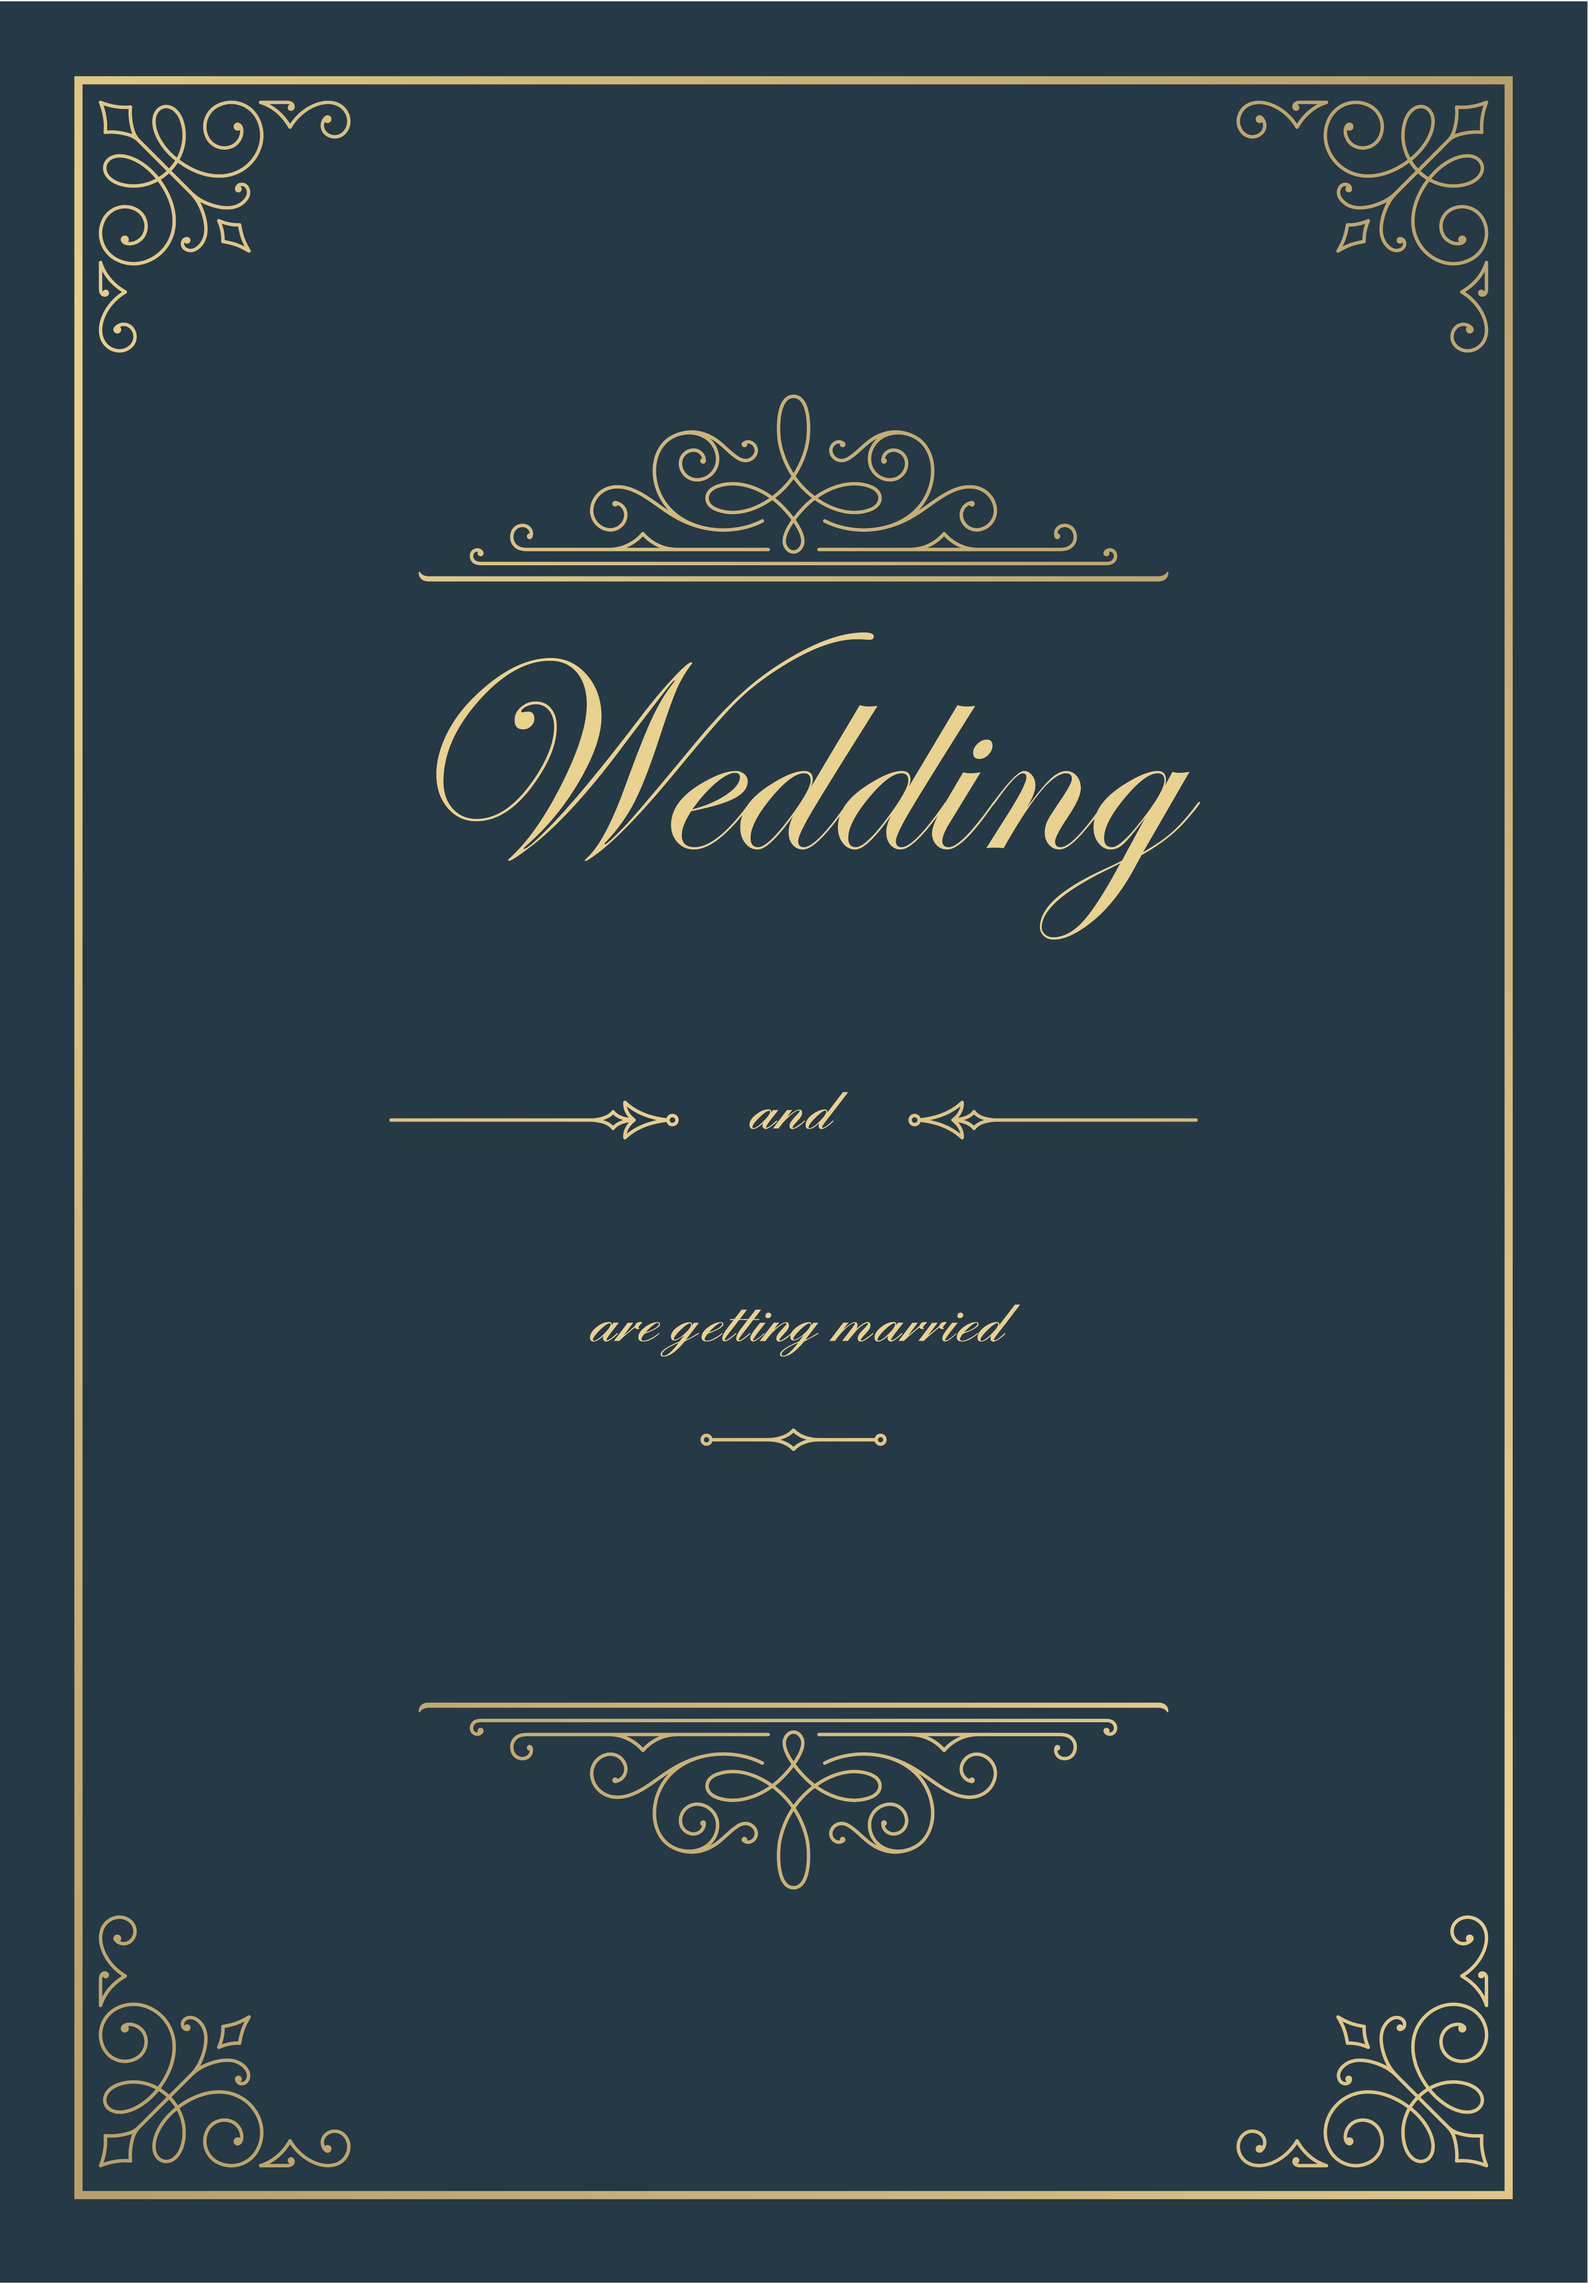
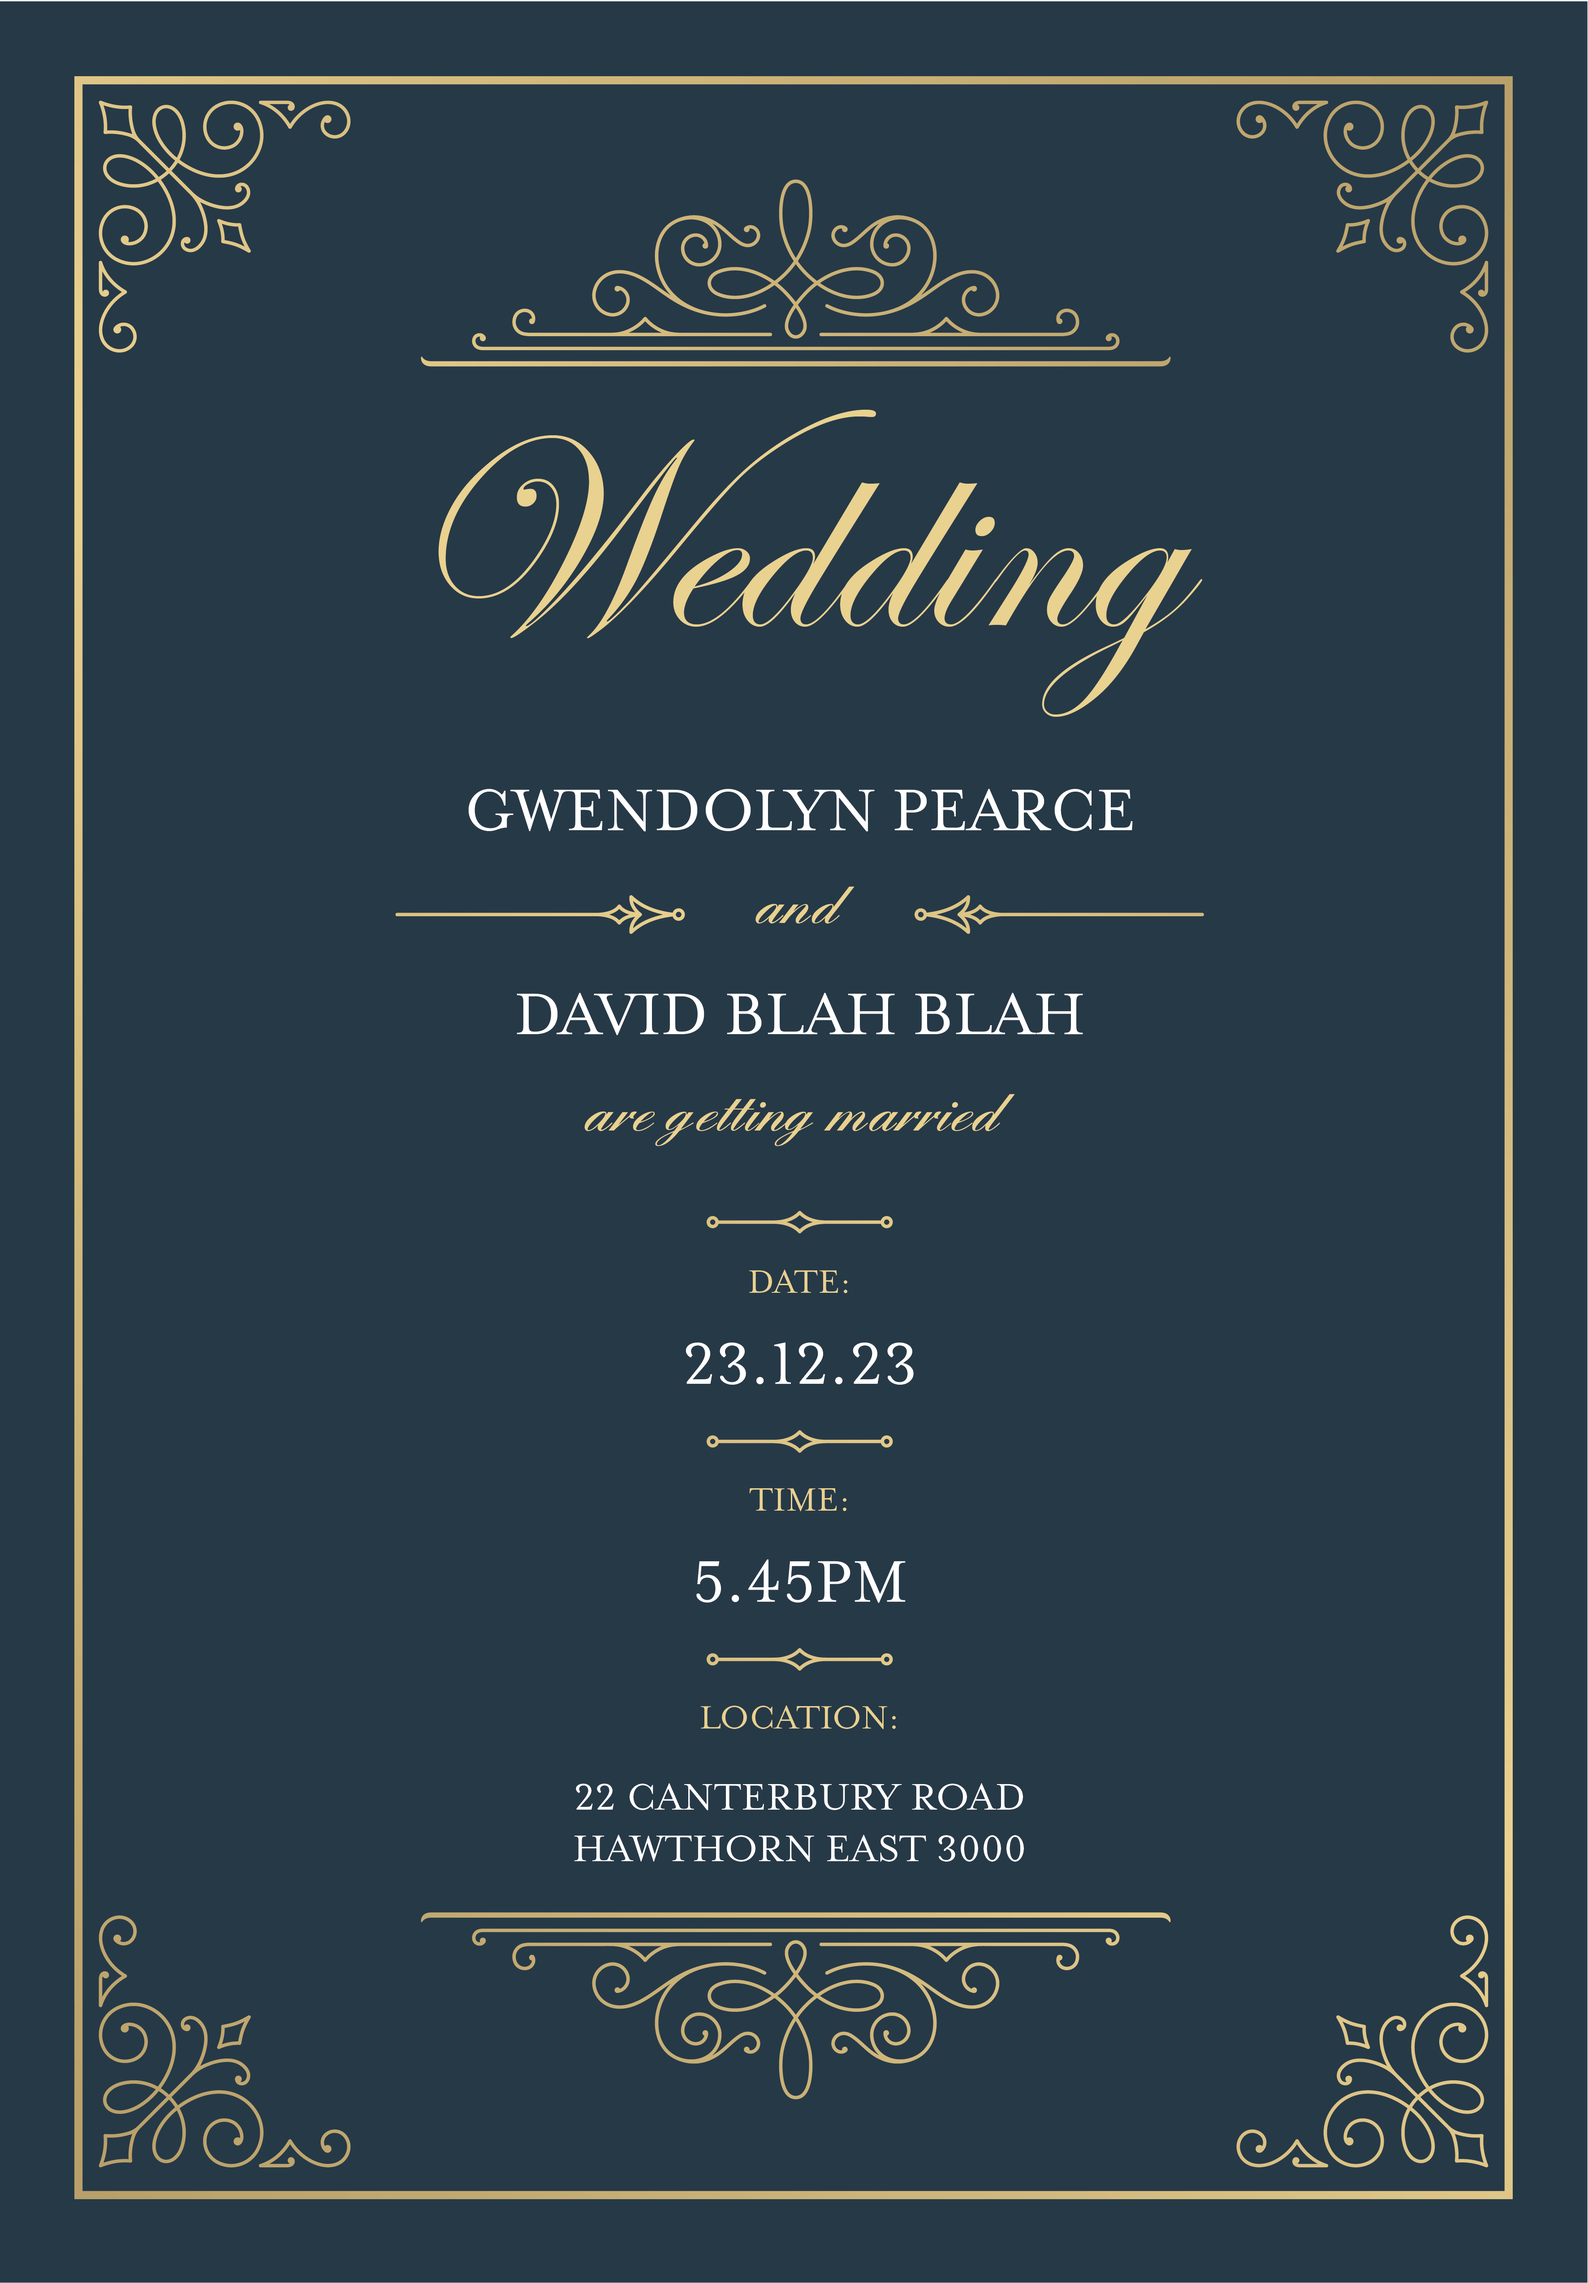
updates 2 April

diff --git a/index.html b/index.html
@@ -9,6 +9,8 @@
     <meta name="description" content="Offering a large range of DIY wedding stationary, solutions and ideas!">
     <script src="https://use.fontawesome.com/538726ceaf.js"></script>
     <link rel="stylesheet" href="https://use.typekit.net/cms0fym.css">
+    <link rel="stylesheet" href="https://use.typekit.net/cms0fym.css">
+    <link rel="stylesheet" href="https://use.typekit.net/cms0fym.css">
 </head>
 
 
@@ -66,8 +68,8 @@
 
         <input id="NameTitle1"(type='text', placeholder='NAME 1:')><br><br><br>
         <input id="NameTitle2"(type='text', placeholder='NAME 2:')><br><br><br>
-        <input id="Time"(type='text', placeholder='TIME:')><br><br><br>
         <input id="Date"(type='text', placeholder='DATE:')><br><br><br>
+        <input id="Time"(type='text', placeholder='TIME:')><br><br><br>
         <input id="Location"(type='text', placeholder='LOCATION:')><br><br><br>
 
         <button type="submit">CREATE INVITE</button>
@@ -82,17 +84,18 @@
         <!--Column RHS - Column theme and live type-->
        
         <div class="column-theme">
-            
+
         <div class="theme-formal" id="themeFormal" alt="Wedding Invite_Formal" title="Formal">
         <div class="formalTextLive"id="formalTextLive">
-        <div id="NameTitle1Live"(type='text')></div><br><br><br>
-        <div id="NameTitle2Live" (type='text')></div><br><br><br>
-        <div id="TimeLive" (type='text')></div><br><br><br>
-        <div id="DateLive" (type='text')></div><br><br><br>
-        <div id="LocationLive" (type='text')></div><br><br><br>
-    </div>
+        <h5 id="NameTitle1Live" style="color: white;"></h5><br><br>
+        <h5 id="NameTitle2Live" style="color: white;"></h5><br><br><br><br>
+        <h5 id="DateLive" style="color: white;"></h5><br><br>
+        <h5 id="TimeLive" style="color: white;"></h5>
+        <p id="LocationLive" style="color: white;"></p>
+        </div>
     
-    </div>
+    
+</div>
        
  
      </div>

diff --git a/css/style.css b/css/style.css
@@ -134,13 +134,30 @@ body, html {
       height: 64vh;
       padding: 20px;
       position: relative;
+     }
+
+
+     .formalTextLive h5 {
+      padding: 20px;
+      position: relative;
       font-size: 18px;
-      font-family: "Gotham Light";
-      color: pink;
+      font-family: "Mrs Eaves";
       text-align: center;
-      margin-bottom: 20px;
+      margin-bottom: 10px;
       text-decoration: none;
-      padding: 180px 0 0 0;
+      margin: 163px 0px -208px 0px;
+      text-transform: uppercase;
+     }
+     .formalTextLive p {
+      padding: 20px;
+      position: relative;
+      font-size: 12px;
+      font-family: "Mrs Eaves";
+      text-align: center;
+      margin-bottom: 10px;
+      text-decoration: none;
+      margin: 215px 0px -215px 0px;
+      text-transform: uppercase;
      }
    
 

diff --git a/script.js b/script.js
@@ -9,8 +9,8 @@ function inviteTextLive(formText, liveText) {
 
 inviteTextLive("NameTitle1","NameTitle1Live");
 inviteTextLive("NameTitle2","NameTitle2Live");
-inviteTextLive("Time","TimeLive");
 inviteTextLive("Date","DateLive");
+inviteTextLive("Time","TimeLive");
 inviteTextLive("Location","LocationLive");
   
 
